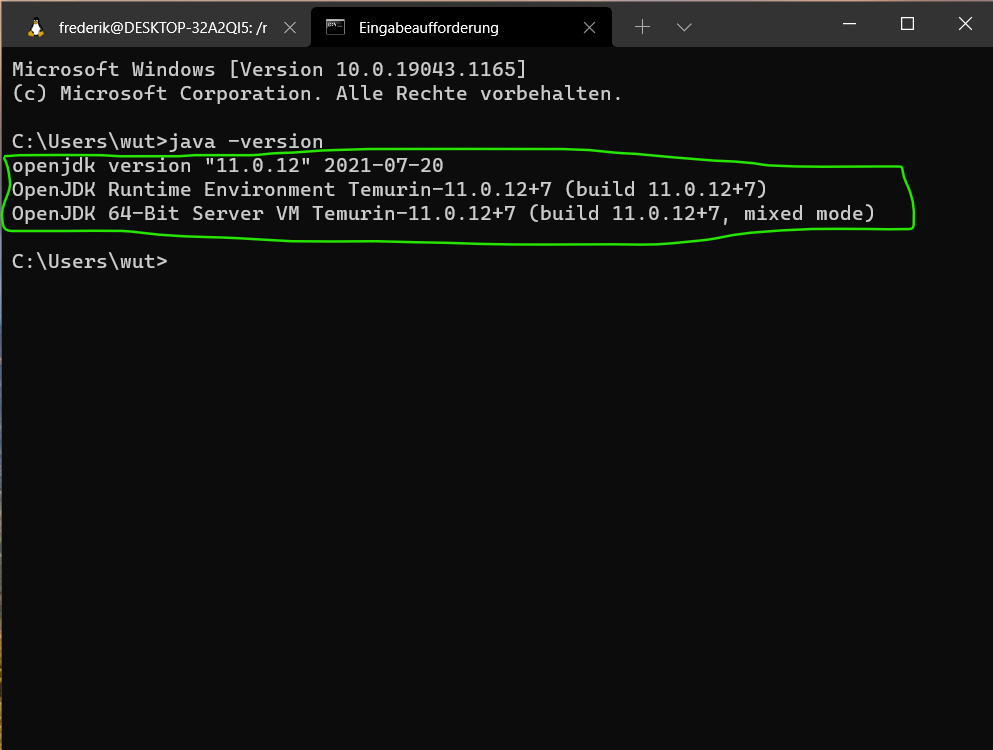
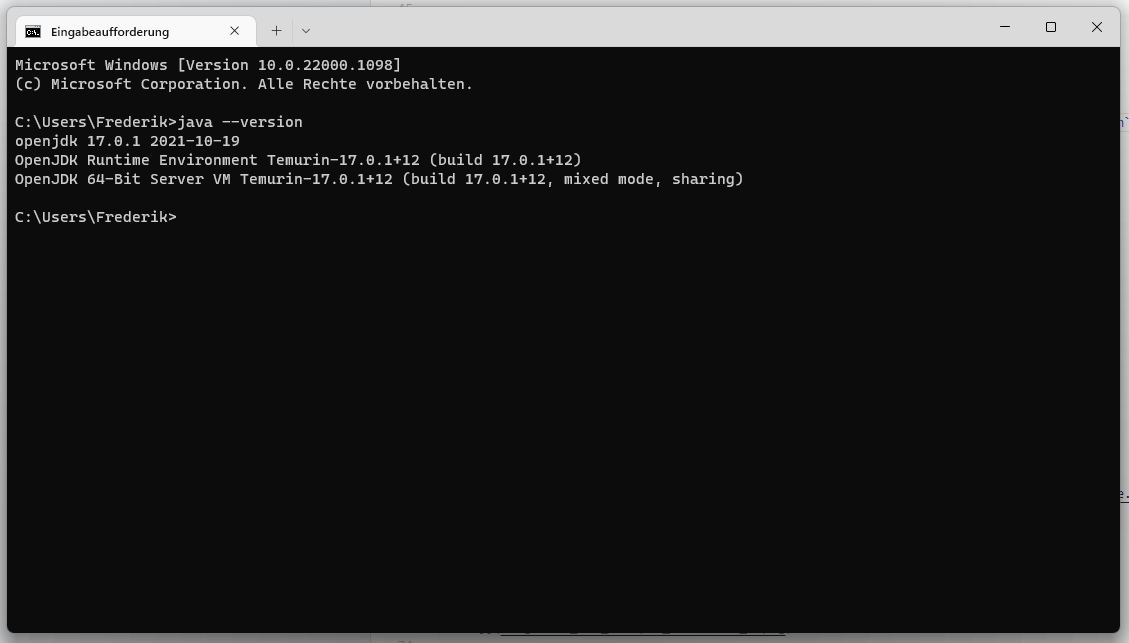
update readme

Changed region(s): [[0.0, 0.0, 1.0, 1.0]]

diff --git a/README.md b/README.md
@@ -1,29 +1,33 @@
 # Software Engineering 1
 
-## Java 11, Eclipse and vscode Tutorial
+## Setup your development environment: Java 17, Eclipse and vscode Tutorial
 
 For the following courses you need to have
 
-1) Java 11 installed on your computer
-2) Eclipse and/or vscode installed on your computer
+1) **Java 17** installed on your computer
+2) **Eclipse** installed on your computer (alternatively vscode + maven, but for beginners we recommend Eclipse)
 
-You can chose whatever IDE you prefer.
+<details>
+<summary> CLICK TO VIEW THE SETUP TUTORIAL </summary>
 
-### Install Java 11
+### Install Java 17
 
-**Dislaimer: the exact Java 11 version number may be higher than the version number in the screenshots - but it needs to be Java 11, not 8 or 14 or higher**
+**Disclaimer: the exact Java 17 version number may be higher than the version number in the screenshots - but it needs to be Java 17, not 11, not 8 or 14 or higher**
 
-#### Install Java 11 on Windows
+#### Install Java 17 on Windows
 
 1. Open https://adoptium.net/  in your browser
-2. Download and run the adoptium open JDK 11 installation wizard ...
+2. Download the installer
 ![01_download_adopt_openjdk](images/01_download_adopt_openjdk.png)
+![](images/01_download_adopt_openjdk_to_downloads.png)
+3. and start the installer
+![](images/01_run_.png)
 
-    ... and click "OK" for the installtion warning
+    ... sometimes you need to click "OK" for the installtion warning
 
     ![01_2_warning](images/01_2_download_adopt_openjdk_warning.png)
 
-3. Click through the adoptium open JDK wizard:  
+4. Click through the adoptium open JDK wizard:  
 ![02_openjdk_installer_1](images/02_openjdk_installer_1.png)
 ![04_openjdk_installer_3](images/04_openjdk_installer_3.png)
 ![5_openjdk_installer_4](images/05_openjdk_installer_4.png)
@@ -33,12 +37,12 @@ You can chose whatever IDE you prefer.
 ![08_openjdk_installer_7](images/08_openjdk_installer_7.png)
 
 
-3. Verify that java has been installed successfully by running the command `java -version` in your Windows command line interface, the exact version may be different at the time you run this command:
+5. Verify that java has been installed successfully by running the command `java -version` in your Windows command line interface, the exact version may be different at the time you run this command:
 ![09_verify_java_1](images/09_verify_java_1.png)
 ![10_verify_java_2](images/10_verify_java_2.png)
 ![11_verify_java_3](images/11_verify_java_3.png)
 
-#### Install Java 11 on MacOS
+#### Install Java 17 on MacOS
 
 1. Open https://adoptium.net/  in your browser
 2. Download and run the adoptium open JDK 11 installation wizard
@@ -115,6 +119,8 @@ If you like you can also run the Eclipse installer wizard on Ubuntu linux from h
     ```
 
 ### Install Visual Studio Code (vscode)
+
+**IMPORTANT**: for Software Engineering **1** we recommend to use Eclipse, even though vscode is a much faster and more modern IDE/editor. However if you insist on using it, here is how to install it.
 
 #### Windows
 
@@ -194,20 +200,26 @@ sudo snap install code --classic
 #### Create a maven project
 
 ![](images/vscode_maven_java_app.gif)
+</details>
+
+______
 
 ## Course 01
 
-**MacOS Users: Please make sure to follow these steps to "downgrade" your TextEdit to save simple java files:**
+<details>
+<summary> MacOS Users only: Please make sure to follow these steps to "downgrade" your TextEdit to save simple java files: </summary>
 
 - on the menu bar on the top left corner of your screen, click on TextEdit, then Preferences.
 - In the New Document tab, change the document format to Plain Text under the Format section. Uncheck the Smart quotes box under the Options section towards the bottom of the preference window.
 - Switch to the Open and Save tab. Change the Opening files and Saving files to Unicode (UTF-8).
 - Close the TextEdit application and re-open it. Open a new document.
 
+</details>
+
 ### Task overview
 
 1. Create, compile and run a simple "Hello World" java application.
-2. Use the Eclipse "Hello World" to get used to Eclipse *Java* Projects.
+2. Use the Eclipse "Hello World tutorial" to get used to Eclipse *Java* Projects.
 3. Create, compile and run a java application with a simple JavaFX graphical user interface with Eclipse via a *Maven* Project
 
 ### Tasks
@@ -235,8 +247,9 @@ sudo snap install code --classic
 #### Task 2 - Hello World Eclipse tutorial
 
 1. Open Eclipse
-2. Click on `Create a Hello World application`
+2. Click on `Tutorials` -> `Create a Hello World application`
 
+    ![](images/19_eclipse_hello_world_1.png)
     ![](images/19_eclipse_hello_world.png)
 
 3. Follow the guide on the right side of your screen to create the Hello World application and run it.
